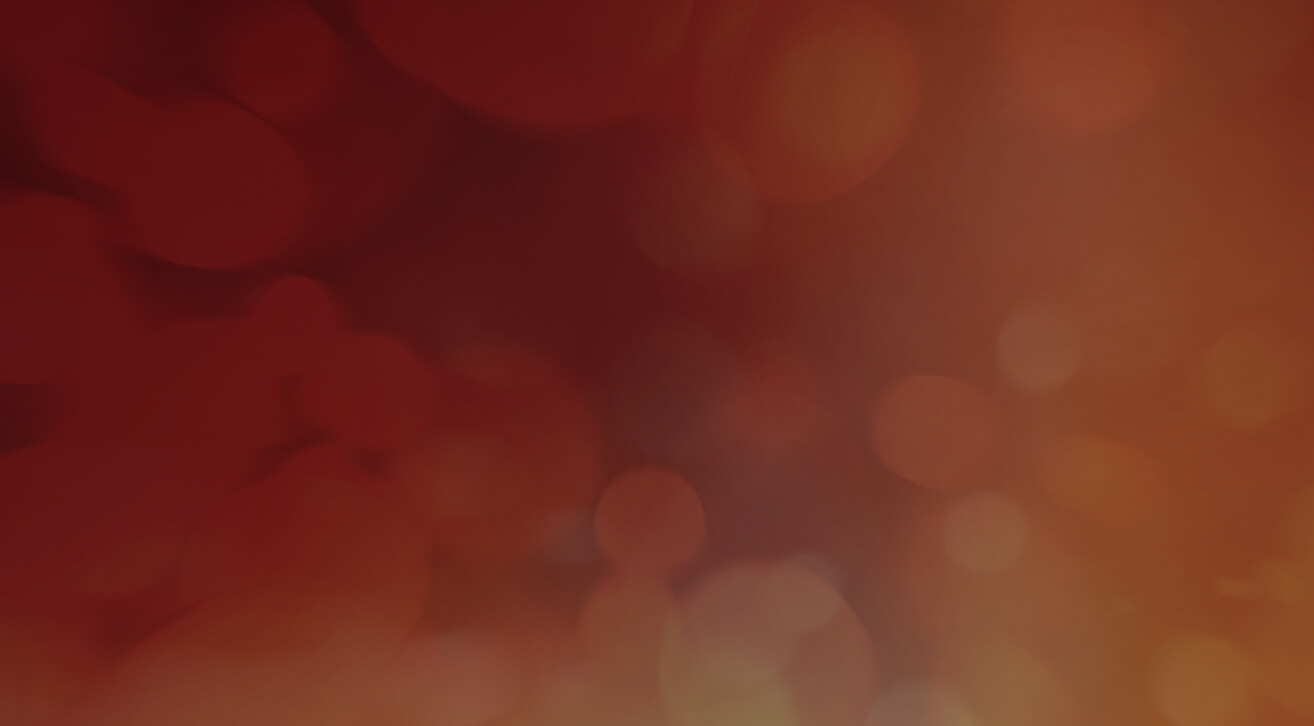
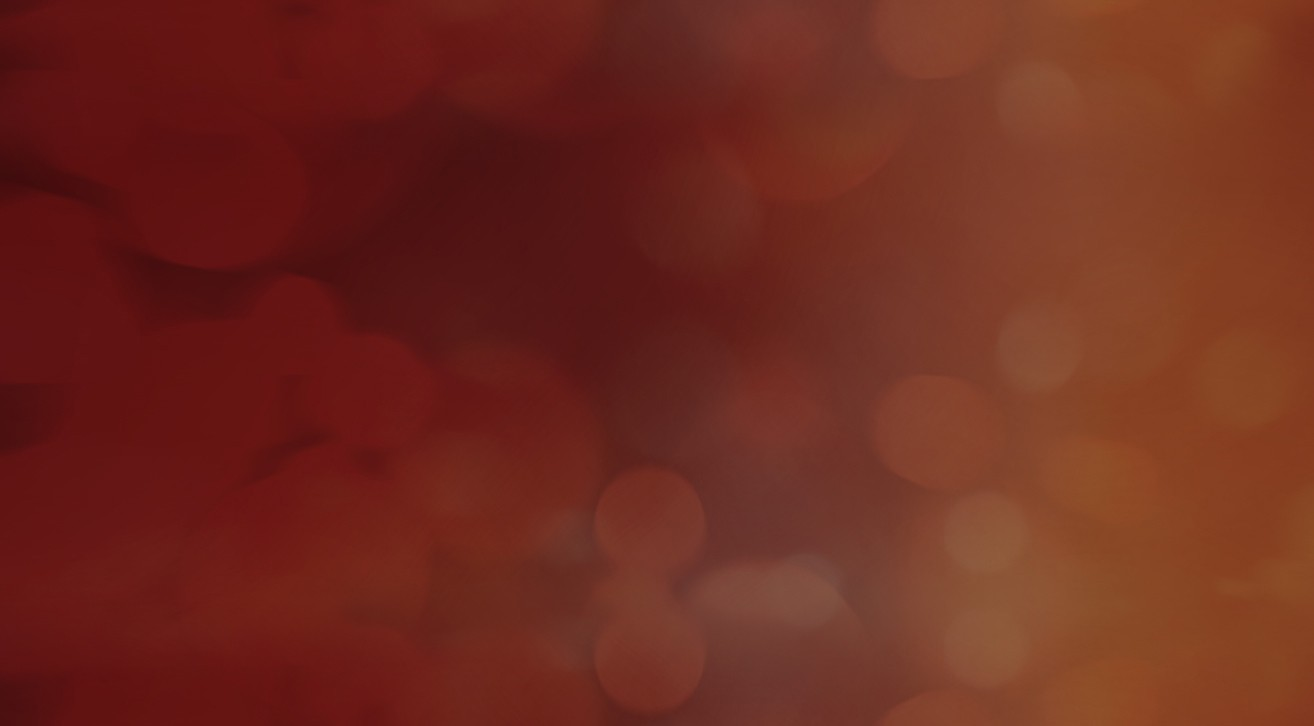
background image changed, my orders button added

Changed region(s): [[0.0, 0.8485, 0.8113, 1.0], [0.0936, 0.0, 0.312, 0.1212], [0.8737, 0.9394, 0.9361, 1.0]]

diff --git a/src/pages/MyOrders.tsx b/src/pages/MyOrders.tsx
@@ -10,6 +10,7 @@ import { AttributesList } from "../components/AttributesList";
 import { drinkImages } from "../constants/products";
 import bubbleTeaHome from "../assets/home_bubbletea.jpg";
 import { Loading } from "../components/Loading";
+import { ButtonOrderNow } from "../components/ButtonOrderNow";
 
 export const containerStyle: CSSProperties = {
   background: "white",
@@ -86,8 +87,8 @@ export function MyOrders() {
             >
               {filteredOrdersByUser.length > 0 ? (
                 <Text id={"RECENT"} />
-              ) : (
-                <Text id={"NO_ORDER_HISTORY"} />
+              ) : (<>
+                <Text id={"NO_ORDER_HISTORY"} /> && <div style={{marginTop: "250px"}}><ButtonOrderNow /></div></>
               )}
             </div>
             {filteredOrdersByUser
